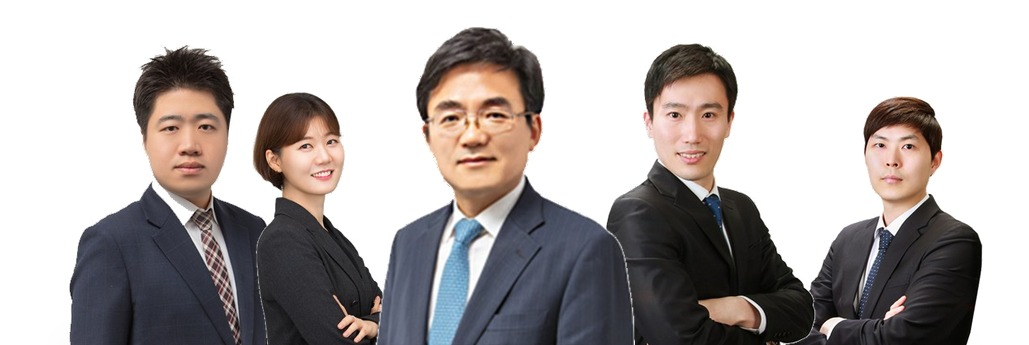
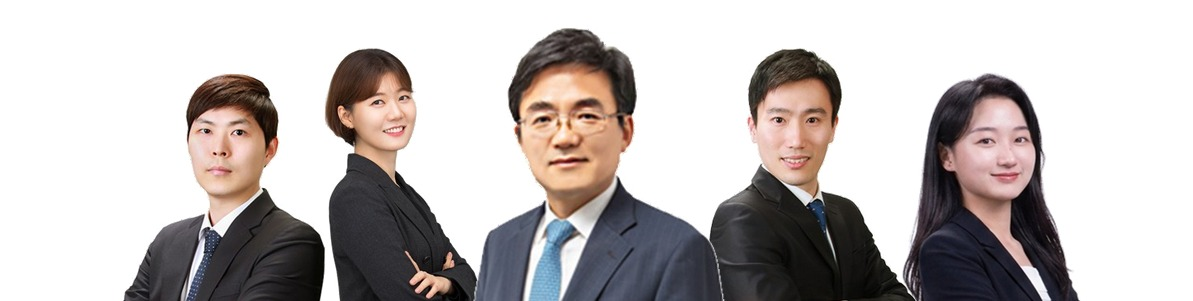
단체컷 구도 재작업 — 눈썹선 피라미드 정렬과 하단 흘림
바닥 정렬을 버리고 머리 꼭대기를 피라미드 선에 얹는다.
원본 크롭 여유가 사람마다 달라 바닥을 맞추면 머리 높이가 50px씩 어긋났다.
결과 머리선 94-73-49-28-48-73 으로 가운데가 가장 높은 단조 피라미드가 된다.

하단은 맞추지 않고 캔버스 밖으로 흘려보낸다.
들쭉날쭉한 가슴 절단선과 떠 있는 느낌이 함께 사라지고,
대표가 가장 많이 잘려 나가 앞에 서 있다는 원근이 생긴다.

6인 배치에서 하혜용과 이지훈을 맞바꿔 좌측 3인이 모두 안쪽을 보게 했다.
5인은 장우진을 맨 왼쪽으로 옮겼다. 오른쪽 끝에 두면 프레임 밖을 본다.
겹침은 어깨에 떨어뜨린다. 손이 잘리면 합성으로 읽힌다.
대표 중심과 인물 덩어리 중심이 어긋나던 문제는 간격을 계산해 맞췄다.
흰 배경의 바닥 그림자는 삭제했다. 가슴에서 잘린 흉상에 발밑 그림자는 맞지 않는다.

diff --git a/tools/make_group.py b/tools/make_group.py
@@ -13,11 +13,21 @@ from scipy.ndimage import label
 
 SRC = r'D:\DDownloads\jl-lawfirm-homepage\assets\img\lawyers'
 OUT = r'D:\DDownloads\jl_group'
-ORDER = ['lee-ji-hun', 'ha-hye-yong', 'park-jong-il', 'lim-jun-kyu', 'jang-woo-jin']
+ORDER = ['jang-woo-jin', 'ha-hye-yong', 'park-jong-il', 'lim-jun-kyu', 'oh-hyun-jin']
 CENTER = 2          # 앞으로 조금 나오게 할 사람(대표) 위치
 
 W, H = 1400, 470
 HEAD_W = 92          # 모든 인물의 머리 폭을 이 값으로 맞춘다
+
+# 머리 꼭대기를 놓을 y — 가운데가 가장 높고 바깥으로 갈수록 내려가는 피라미드.
+# 바닥에 맞추면 원본 크롭 여유가 그대로 머리 높이 차이로 튀어 지그재그가 된다.
+HEAD_TOP = {0: 27, 1: 47, 2: 72, 3: 92}
+
+# 피부톤 폭 측정이 사람마다 조금씩 빗나간다. 렌더 결과를 재서 되먹인 보정값.
+FACE_FIX = {'jang-woo-jin': 1.17}
+
+OV_FAR = 0.09        # 일반 인접쌍 겹침 — 어깨에 걸린다
+OV_LEAD = 0.13       # 대표 좌우만 조금 더 — 대신 손·팔뚝은 피한다
 LEAD_K = 1.30        # 대표변호사만 이만큼 더 크게 — 가운데에서 가장 크게 선다
 NAVY_TOP, NAVY_BOT = (17, 36, 82), (8, 17, 45)
 BG = 'navy'          # 'navy' | 'white'
@@ -65,13 +75,8 @@ def head_width(im):
 def backdrop(w, h):
     if BG == 'white':
         # 원본 배경이 흰색이라 흰 바탕이 가장 깨끗하게 떨어진다.
-        # 인물이 허공에 뜨지 않도록 바닥에 옅은 그림자만 깐다.
-        bg = Image.new('RGB', (w, h), (255, 255, 255))
-        sh = Image.new('L', (w, h), 0)
-        ImageDraw.Draw(sh).ellipse(
-            [w * 0.06, h * 0.93, w * 0.94, h * 1.06], fill=38)
-        sh = sh.filter(ImageFilter.GaussianBlur(h // 26))
-        return Image.composite(Image.new('RGB', (w, h), (208, 212, 220)), bg, sh)
+        # 가슴에서 잘린 흉상이라 발밑 그림자는 넣지 않는다. 아래로 흘려보내 자른다.
+        return Image.new('RGB', (w, h), (255, 255, 255))
     col = Image.new('RGB', (1, h))
     d = ImageDraw.Draw(col)
     for y in range(h):
@@ -94,24 +99,58 @@ def build():
         im = im.crop(bb)
         # 원본 맨 아랫줄에 JPEG 압축 찌꺼기가 한 줄 남는다. 가슴 아래라 잘라도 안 보인다.
         im = im.crop((0, 0, im.width, im.height - max(3, int(im.height * 0.025))))
+
         mid = (i == CENTER)
         target = HEAD_W * (LEAD_K if mid else 1.0)
-        k = target / head_width(im)
+        k = target / head_width(im) * FACE_FIX.get(slug, 1.0)
         k = min(k, 1.34)
         im = im.resize((max(1, int(im.width * k)), max(1, int(im.height * k))),
                        Image.LANCZOS)
         cuts.append(im)
 
-    # 캔버스를 인물 크기에 맞춘다 — 위가 휑하지 않게
-    tall = max(c.height for c in cuts)
-    h = int(tall * 1.07)
-    ov = int(sum(c.width for c in cuts) / n * 0.16)      # 서로 겹치는 폭
-    content = sum(c.width for c in cuts) - ov * (n - 1)
-    side = int(content * 0.05)
+    # 머리 꼭대기를 피라미드 선에 얹는다 (bbox 크롭이라 이미지 y=0 이 곧 머리 꼭대기)
+    tops = [HEAD_TOP[min(abs(i - CENTER), max(HEAD_TOP))] for i in range(n)]
 
-    # 대표의 가로 중심이 캔버스 정중앙에 오도록 좌우 여백을 따로 준다.
-    # 인원이 짝수면 그냥 늘어놓았을 때 가운데가 비어 대표가 옆으로 밀린다.
-    lead_off = sum(c.width - ov for c in cuts[:CENTER]) + cuts[CENTER].width / 2.0
+    # 캔버스 아래로 전원이 흘러넘치게 자른다.
+    # 밑단을 맞추지 않으면 들쭉날쭉한 가슴 절단선도, 떠 있는 느낌도 함께 사라진다.
+    h = min(tops[i] + cuts[i].height for i in range(n))
+
+    # 겹침은 어깨에 떨어뜨린다. 손이 잘리면 바로 합성으로 읽힌다.
+    ovs = []
+    for i in range(n - 1):
+        near = (i == CENTER - 1) or (i + 1 == CENTER)
+        base = (cuts[i].width + cuts[i + 1].width) / 2.0
+        ovs.append(int(base * (OV_LEAD if near else OV_FAR)))
+
+    content = sum(c.width for c in cuts) - sum(ovs)
+
+    # 대표의 가로 중심과 인물 덩어리의 가로 중심을 일치시킨다.
+    # 둘이 어긋나면 대표를 정중앙에 놓는 순간 한쪽 여백만 넓어진다.
+    # 왼쪽 간격을 e 만큼씩 좁혀 맞춘다 — 벌리면 빈틈이 생기므로 좁히는 쪽만 쓴다.
+    lead_off0 = sum(cuts[i].width - ovs[i] for i in range(CENTER)) + cuts[CENTER].width / 2.0
+    if CENTER:
+        e = int(round((2 * lead_off0 - content) / CENTER))
+        for i in range(CENTER):
+            room = int((cuts[i].width + cuts[i + 1].width) / 2.0 * 0.20) - ovs[i]
+            ovs[i] += max(-ovs[i], min(e, room))       # 겹침 상한 20%
+        content = sum(c.width for c in cuts) - sum(ovs)
+
+        # 왼쪽만으로 못 맞추면 오른쪽 간격을 벌려 나머지를 흡수한다 (겹침 하한 5%)
+        right = list(range(CENTER, n - 1))
+        if right:
+            lead_off = sum(cuts[i].width - ovs[i] for i in range(CENTER)) + cuts[CENTER].width / 2.0
+            d = int(round((2 * lead_off - content) / len(right)))
+            if d > 0:
+                for i in right:
+                    floor = int((cuts[i].width + cuts[i + 1].width) / 2.0 * 0.05)
+                    ovs[i] -= min(d, max(0, ovs[i] - floor))
+                content = sum(c.width for c in cuts) - sum(ovs)
+
+    side = 92
+
+    # 대표의 가로 중심을 캔버스 정중앙에 맞춘다.
+    # 짝수 인원이면 그냥 늘어놓았을 때 대표가 옆으로 밀린다.
+    lead_off = sum(cuts[i].width - ovs[i] for i in range(CENTER)) + cuts[CENTER].width / 2.0
     pad_l = side + max(0.0, content / 2.0 - lead_off)
     pad_r = side + max(0.0, lead_off - content / 2.0)
     w = int(content + pad_l + pad_r)
@@ -119,16 +158,13 @@ def build():
     canvas = backdrop(w, h).convert('RGBA')
 
     pos, cx = [], int(pad_l)
-    for c in cuts:
+    for i, c in enumerate(cuts):
         pos.append(cx)
-        cx += c.width - ov
+        cx += c.width - (ovs[i] if i < n - 1 else 0)
 
-    order = sorted(range(n), key=lambda i: abs(i - CENTER), reverse=True)
-    for i in order:
-        c = cuts[i]
-        # 대표는 한 뼘 앞으로 — 발치를 조금 내려 화면을 뚫고 나오게 한다
-        dy = int(h * 0.012) if i == CENTER else 0
-        canvas.alpha_composite(c, (pos[i], h - c.height + dy))
+    # 가운데에서 먼 사람부터 깔아 대표가 맨 위에 오게 한다
+    for i in sorted(range(n), key=lambda i: abs(i - CENTER), reverse=True):
+        canvas.alpha_composite(cuts[i], (pos[i], tops[i]))
 
     return canvas.convert('RGB')
 
@@ -141,7 +177,7 @@ if __name__ == '__main__':
         argv.remove('white')
     suffix = '_white' if BG == 'white' else ''
     if argv and argv[0] == '6':
-        ORDER = ['jang-woo-jin', 'lee-ji-hun', 'ha-hye-yong',
+        ORDER = ['jang-woo-jin', 'ha-hye-yong', 'lee-ji-hun',
                  'park-jong-il', 'lim-jun-kyu', 'oh-hyun-jin']
         CENTER = 3
         name = 'group6%s.jpg' % suffix
